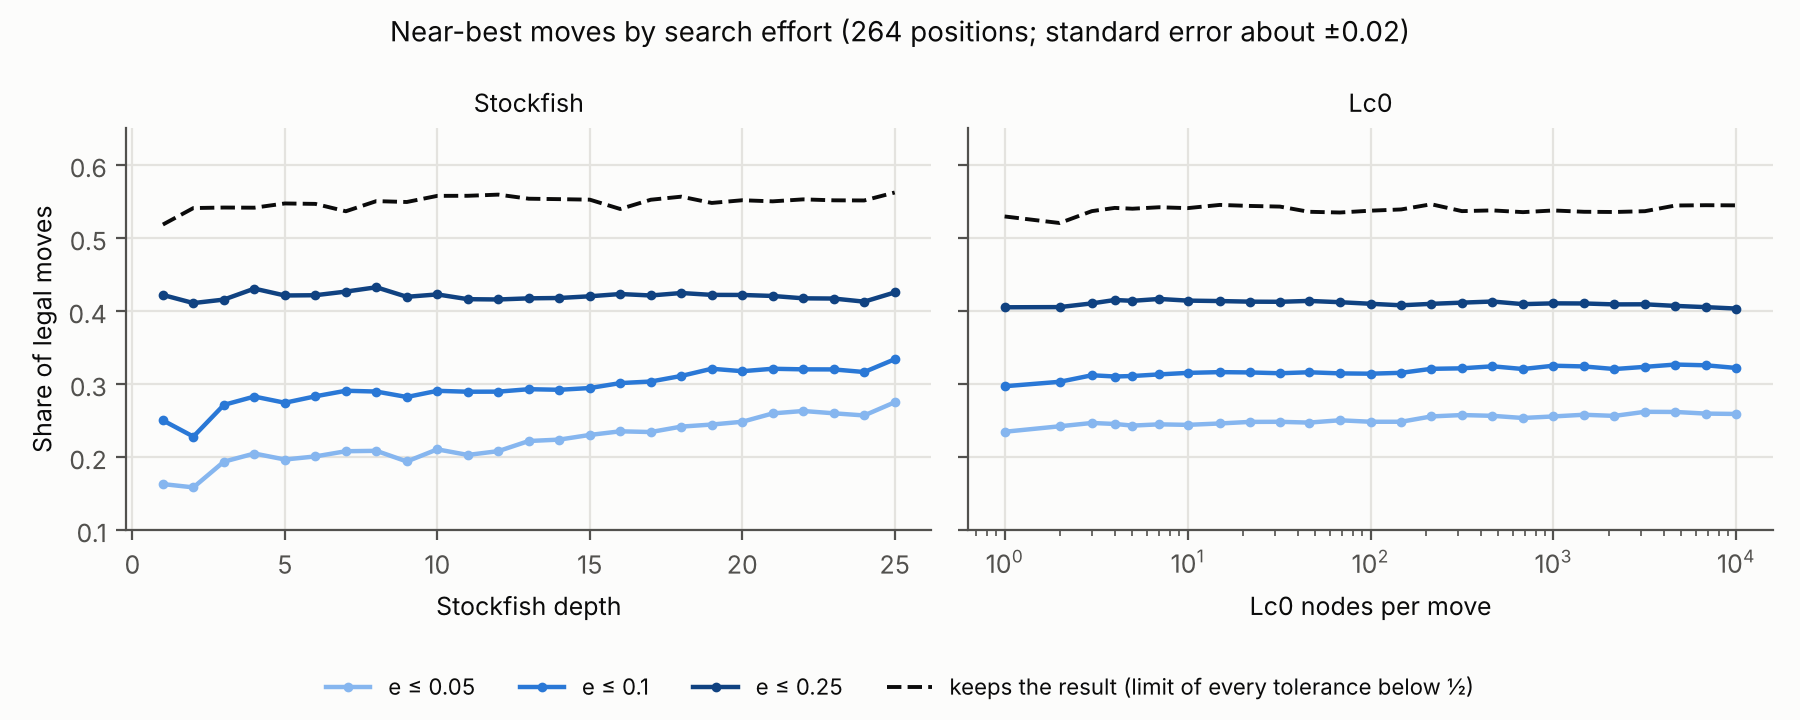
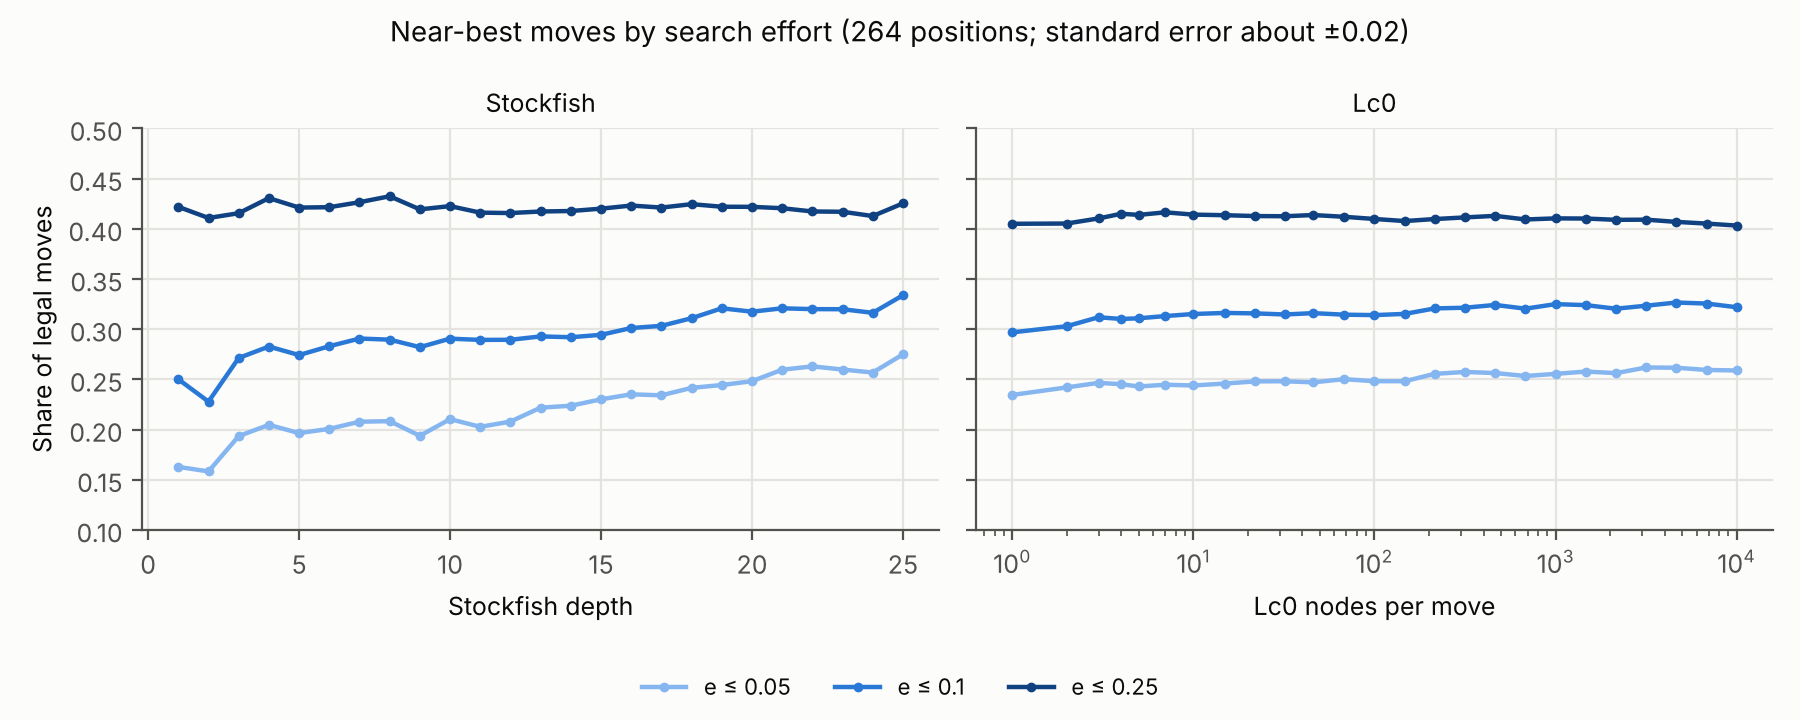
v2 analysis: defer infinite depth; half-tolerance check (step 9)
Figures and README no longer show or describe infinite-depth estimates; step 5
is described as a measurement of result-keeping moves by the engines' own
verdicts, and the tablebase check only compares with perfect play.

Claude-Session: https://claude.ai/code/session_01D32BWS5i6ZdR1y23xheMQ1

diff --git a/v2/analysis/figures.py b/v2/analysis/figures.py
@@ -38,7 +38,6 @@ TOLERANCE_COLORS = {0.05: "#86b6ef", 0.10: "#2a78d6", 0.25: "#104281"}   # ordin
 
 
 def near_best_by_level():
-    keeping = [r for r in read_csv("result_keeping.csv") if r["rule"] == "argmax"]
     fig, axes = plt.subplots(1, 2, figsize=(9, 3.6), sharey=True)
     for ax, run in ((axes[0], c.load_stockfish()), (axes[1], c.load_lc0())):
         counts, n = c.near_best_counts(run)
@@ -46,9 +45,6 @@ def near_best_by_level():
         for ti, t in enumerate(c.THRESHOLDS):
             ax.plot(xs, (counts[:, :, ti] / n[:, None]).mean(axis=0), "-o", color=TOLERANCE_COLORS[t], markersize=2.5,
                     linewidth=1.6, label=f"e ≤ {t}")
-        keep = sorted([r for r in keeping if r["engine"] == run.engine], key=lambda r: int(r["level_index"]))
-        ax.plot(xs, [float(r["share_keeping"]) for r in keep], "--", color=INK, linewidth=1.4,
-                label="keeps the result (limit of every tolerance below ½)")
         if run.level_name == "depth":
             ax.set_xlabel("Stockfish depth")
         else:
@@ -56,11 +52,11 @@ def near_best_by_level():
             ax.set_xlabel("Lc0 nodes per move")
         ax.set_title(run.engine, fontsize=9)
     axes[0].set_ylabel("Share of legal moves")
-    axes[0].set_ylim(0.1, 0.65)
+    axes[0].set_ylim(0.1, 0.5)
     handles, labels = axes[1].get_legend_handles_labels()
     fig.suptitle("Near-best moves by search effort (264 positions; standard error about ±0.02)", fontsize=10)
     fig.tight_layout(rect=(0, 0.1, 1, 1))
-    fig.legend(handles, labels, loc="lower center", ncol=4, frameon=False, fontsize=8)
+    fig.legend(handles, labels, loc="lower center", ncol=3, frameon=False, fontsize=8)
     fig.savefig(c.OUT / "near_best_by_level.png", dpi=200)
     plt.close(fig)
 
@@ -73,26 +69,12 @@ def share_curves(errors, grid):
     return np.mean([(e[None, :] <= grid[:, None] + 1e-12).mean(axis=1) for e in errors], axis=0)
 
 
-def limit_errors(wdl_results):
-    """Per-position errors at infinite depth from win/draw/loss results (1 / 0.5 / 0): each e is 0, 1/2 or 1."""
-    out = []
-    for r in wdl_results:
-        best, worst = r.max(), r.min()
-        out.append(np.zeros(len(r)) if best == worst else (best - r) / (best - worst))
-    return out
-
-
 def share_by_tolerance():
-    """Share of legal moves with relative error <= t, against t, at five levels per engine, plus the
-    infinite-depth curve estimated from each engine's own win/draw/loss verdicts at its top level."""
-    rk = importlib.import_module("05_result_keeping")
+    """Share of legal moves with relative error <= t, against t, at five levels per engine."""
     grid = np.concatenate([[0.0], np.linspace(1e-4, 1.0, 600)])
     fig, axes = plt.subplots(2, 2, figsize=(9.5, 6.4), sharey="row")
-    for col, (run, zip_path, level_col, offset) in enumerate(((c.load_stockfish(), c.SF_RUN, "depth", 1),
-                                                               (c.load_lc0(), c.LC0_RUN, "level", 0))):
+    for col, run in enumerate((c.load_stockfish(), c.load_lc0())):
         xs = run.x()
-        wdl = rk.load_wdl(zip_path, level_col, offset)
-        lim = share_curves(limit_errors([rk.results(wdl[p])[-1] for p in run.pos_ids]), grid)
         picks = [0, 6, 12, 18, 24]
         curves = [(run.levels[li], share_curves([c.relative_errors(xs[p][li:li + 1])[0] for p in run.pos_ids], grid))
                   for li in picks]
@@ -101,8 +83,6 @@ def share_by_tolerance():
             for (level, y), color in zip(curves, LEVEL_COLORS):
                 name = f"depth {level}" if run.level_name == "depth" else f"{level:,} node{'s' if level > 1 else ''}"
                 ax.plot(grid, y, color=color, linewidth=1.8, label=name)
-            ax.step(grid, lim, where="post", color=INK, linestyle="--", linewidth=1.3,
-                    label="infinite depth (estimated)")
             ax.set_xlim(0, xmax)
             for t in c.THRESHOLDS:
                 if t <= xmax:
@@ -111,7 +91,7 @@ def share_by_tolerance():
                 ax.set_title(run.engine, fontsize=10)
                 ax.set_ylim(0, 1.02)
             else:
-                ax.set_ylim(0, 0.7)
+                ax.set_ylim(0, 0.5)
                 ax.set_xlabel("error tolerance t")
         axes[0, col].legend(loc="upper left", frameon=False, fontsize=7.5, ncol=2, columnspacing=1.2)
     axes[0, 0].set_ylabel("share of legal moves with e ≤ t")

diff --git a/v2/analysis/09_half_tolerance_check.py b/v2/analysis/09_half_tolerance_check.py
@@ -1,0 +1,49 @@
+"""Step 9 (check): is about half of the legal moves within relative error 1/2, and is that robust?
+
+e <= 1/2 means a move's value is at least as close to the best move's value as to the worst move's.
+Reports the average share with e <= 0.5 (and its spread across positions) for several value scales and
+for selected Stockfish depths and Lc0 node levels.
+Output: out/half_tolerance_check.csv, printed summary.
+"""
+import numpy as np
+
+import common as c
+
+SCALES = [("common, Lichess steepness", 1.0, False), ("common, half as steep", 0.5, False),
+          ("common, twice as steep", 2.0, False), ("engine's own win/draw/loss scale", None, True)]
+
+
+def share_half(run, li, steepness, own):
+    xs = run.x(steepness or 1.0, own)
+    return np.array([np.mean(c.relative_errors(xs[p][li:li + 1])[0] <= 0.5 + 1e-12) for p in run.pos_ids])
+
+
+def main():
+    rows = []
+    for run, picks in ((c.load_stockfish(), (0, 12, 24)), (c.load_lc0(), (0, 12, 24))):
+        for name, steep, own in SCALES:
+            for li in picks:
+                s = share_half(run, li, steep, own)
+                m, se = c.mean_se(s)
+                q1, med, q3 = np.percentile(s, [25, 50, 75])
+                rows.append([run.engine, run.levels[li], name, round(m, 4), round(se, 4), round(med, 4), round(q1, 4), round(q3, 4)])
+    # centimetre-style raw centipawns as a further scale (clipped at +-1000, mates at the clip)
+    for run in (c.load_stockfish(), c.load_lc0()):
+        for li in (0, 12, 24):
+            vals = []
+            for p in run.pos_ids:
+                cp = np.clip(run.cp[p][li:li + 1], -1000, 1000)
+                vals.append(np.mean(c.relative_errors(cp)[0] <= 0.5 + 1e-12))
+            m, se = c.mean_se(vals)
+            q1, med, q3 = np.percentile(vals, [25, 50, 75])
+            rows.append([run.engine, run.levels[li], "centipawns clipped at +-1000", round(m, 4), round(se, 4),
+                         round(med, 4), round(q1, 4), round(q3, 4)])
+    c.write_csv(c.OUT / "half_tolerance_check.csv", rows,
+                ["engine", "level", "scale", "mean_share_e_le_half", "se", "median", "q25", "q75"])
+    print("Share of legal moves with e <= 0.5: average ± s.e. [middle half of positions]")
+    for r in rows:
+        print(f"  {r[0]:<10}{r[1]:>6}  {r[2]:<34} {r[3]:.3f} ± {r[4]:.3f}  [{r[6]:.2f}, {r[7]:.2f}]")
+
+
+if __name__ == "__main__":
+    main()

diff --git a/v2/analysis/04_tablebase_check.py b/v2/analysis/04_tablebase_check.py
@@ -1,4 +1,4 @@
-"""Step 4: check the infinite-depth picture against perfect play, in positions with <= 7 pieces.
+"""Step 4: compare the engines with perfect play, in positions with <= 7 pieces.
 
 Reads tablebase_results.csv (made by tablebase_query.py on a computer with internet access, from
 tablebase_positions.txt: the 78 positions of the first Lc0 run with at most 7 pieces, 16 of which are
@@ -16,7 +16,6 @@ Compares with perfect play:
   - on the 16 paired positions: both engines' near-best sets at every level, and their result-keeping
     sets read from their win/draw/loss verdicts (step 5);
   - on all 78 positions: Lc0's result-keeping sets at 1,000 nodes (first run);
-  - whether the Stockfish depth trend, fitted on the paired positions, points at the exact share.
 Output: out/tablebase_check.csv, printed summary.
 """
 import collections
@@ -28,7 +27,6 @@ import numpy as np
 
 import common as c
 
-trends = importlib.import_module("03_depth_trends")
 rk = importlib.import_module("05_result_keeping")
 
 MOVER_VALUE = {"loss": 1.0, "maybe-loss": 1.0, "win": 0.0, "maybe-win": 0.0, "draw": 0.5,
@@ -124,17 +122,6 @@ def main():
     c.write_csv(c.OUT / "tablebase_check.csv", rows,
                 ["engine", "rule", "level_index", "level", "positions", "share_engine", "share_exact", "precision",
                  "recall", "verdict_right"])
-
-    print("\nStockfish trend fitted on the paired positions (depths 5-25), extrapolated, against the exact share")
-    eng = trends.Engine(sf.subset(pids))
-    q = eng.quantities(np.arange(len(pids)), ("mean_count",))
-    for ti, t in enumerate(c.THRESHOLDS):
-        y = q["mean_share"][:, ti]
-        out = []
-        for form in ("constant", "linear", "exponential", "power"):
-            params, lim, ident = trends.fit_form(form, eng.x[eng.use], y[eng.use])
-            out.append(f"{form} {'-' if lim is None or not ident else f'{lim:.3f}'}")
-        print(f"  e<={t}: depth 25 {y[-1]:.3f} | limits: " + ", ".join(out) + f" | exact {ex_share(pids):.3f}")
 
 
 if __name__ == "__main__":

diff --git a/v2/analysis/05_result_keeping.py b/v2/analysis/05_result_keeping.py
@@ -1,16 +1,13 @@
-"""Step 5: the infinite-depth limit read directly, as the share of moves that keep the result.
+"""Step 5: the share of moves that keep the best result, according to each engine's own verdict.
 
-With perfect play every move's value is exactly a win, draw or loss, so the relative error of every
-move is 0, 1/2 or 1 (or 0 for all when all moves give the same result). For every tolerance below
-1/2 the near-best moves are therefore the same set: the moves that keep the position's best result.
-The smooth depth trends of step 3 cannot reach this limit for Stockfish (its share is still rising
-at depth 25), so here the limit is estimated directly: each move's result is read from the engine's
-own win/draw/loss verdict (the most likely of the three; a majority rule is the robustness check),
-and a position's share is the fraction of moves whose result equals the best one.
+Each move's result (win, draw or loss for the player who makes it) is read from the engine's own
+win/draw/loss figures at that depth or node level (the most likely of the three; a majority rule is the
+robustness check). A position's share is the fraction of moves whose result equals the best one (all
+moves, when every move gives the same result).
 
 Reported for every Stockfish depth and Lc0 node level, by the verdict for the side to move, and as
-agreement between the engines at the top level. The tablebase step (04) checks the verdicts against
-perfect play where that is known.
+agreement between the engines at the top level. Step 4 compares the verdicts with perfect play where
+the tablebases know it.
 Output: out/result_keeping.csv
 """
 import collections

diff --git a/v2/analysis/README.md b/v2/analysis/README.md
@@ -10,7 +10,11 @@ Requirements: Python 3 with `numpy`, `scipy`, `matplotlib` and `chess`. Run the 
 | `01_scale_sensitivity.py` | How much the scale choices move the near-best share at the top level. | seconds |
 | `02_count_distributions.py` | Fits five count models to the number of near-best moves at every level and tolerance. | ~20 s |
 | `03_depth_trends.py` | Fits trend shapes against depth, tests them on held-out depths, and extrapolates to infinite depth with bootstrap error bars. | ~5 min |
-| `05_result_keeping.py` | Reads the infinite-depth limit directly: the share of moves that keep the best result, from each engine's win/draw/loss verdicts. | seconds |
+| `05_result_keeping.py` | The share of moves that keep the best result according to each engine's own win/draw/loss verdict, at every depth and node level. | seconds |
+| `06_recognition_and_decisions.py` | How far the near-best moves overlap the result-keeping moves, how often the best move changes with depth, and whether the engines grow more or less optimistic. | seconds |
+| `07_error_distribution_look.py` | The relative error itself, binned, by depth and node level. | seconds |
+| `08_zoib_look.py` | A first, pooled fit of the zero-one-inflated beta to the relative error at five levels per engine. | seconds |
+| `09_half_tolerance_check.py` | The share of moves with e <= 1/2 across scales, depths and engines. | seconds |
 | `tablebase_query.py` | Asks the Lichess tablebase for the perfect-play result of every move in `tablebase_positions.txt` (the 78 positions of the first Lc0 run with at most 7 pieces; 16 are among the 264 paired positions). Needs internet access: `python tablebase_query.py --positions tablebase_positions.txt`, then put `tablebase_results.csv` in `../results/`. | ~2 min |
 | `04_tablebase_check.py` | Compares the engines and the extrapolation with perfect play in those positions (reads `../results/tablebase_results.csv`). | ~10 s |
 | `figures.py` | Draws the figures in `out/`. | ~10 s |
@@ -27,13 +31,13 @@ Requirements: Python 3 with `numpy`, `scipy`, `matplotlib` and `chess`. Run the 
 
 **Trends.** Stockfish: train on depths 5-20, hold out 21-25 (depths 1-4 are mostly quiescence search). Lc0: train on 1-1,000 nodes, hold out 1,468-10,000. Shapes: constant, linear (no limit), exponential approach and power approach. The shape with the smallest held-out error is refitted on all levels; its value at infinite depth is the limit. Error bars come from refitting on positions resampled with replacement.
 
-**The limit.** With perfect play every move's value is exactly a win, draw or loss, so every relative error is 0, 1/2 or 1. For any tolerance below 1/2 the near-best moves at infinite depth are therefore the same set: the moves that keep the position's best result (all moves, when every move gives the same result). Step 5 estimates this set from the engines' own win/draw/loss verdicts; step 4 checks it against tablebases.
+**Infinite depth.** Deferred: the analysis so far describes the measured depths and node levels only. Step 5 measures, at each level, which moves keep the result according to the engine's own verdict; step 4 compares the engines with perfect play in the positions with at most 7 pieces.
 
 ## Results so far (264 positions, Stockfish depth 25 and Lc0 10,000 nodes)
 
 1. **Scale.** On the common curve the two engines agree: the share of moves with e <= 0.10 is 0.334 for Stockfish and 0.322 for Lc0, and the per-position counts correlate at 0.91. Making the curve twice as gentle or twice as steep moves the share from about 0.37 to about 0.28, but the engines stay within 0.02 of each other. On each engine's own win/draw/loss scale they disagree (0.435 against 0.244).
 2. **Distribution.** The binomial is rejected at every level. The beta-binomial passes the goodness-of-fit test at all 25 levels for e <= 0.05 and 0.10, for both engines. At e <= 0.25 there are more positions with exactly one acceptable move than it predicts, and a zero-inflated beta-binomial (an extra 3-10% of such positions) fits better. At the top level, e <= 0.10: Stockfish mu = 0.285, phi = 1.72; Lc0 mu = 0.271, phi = 1.75. Stockfish's parameters move with depth until they meet Lc0's, which hardly move at all.
 3. **Depth trends.** Lc0 is flat from 1 to 10,000 nodes, so its limits are close to its current values. Stockfish at e <= 0.05 and 0.10 is still rising at depth 25 (about 0.4 and 0.3 points of share per depth), and the held-out test cannot tell a levelling-off curve from a straight line: the limit is not identified from depths 1-25. At e <= 0.25 both engines are flat (0.425 and 0.403).
-4. **Result-keeping moves (the limit).** 0.562 of the legal moves for Stockfish at depth 25 and 0.545 for Lc0 at 10,000 nodes, about 14 moves per position. The share barely depends on search effort (Stockfish 0.547 at depth 5, Lc0 0.529 at 1 node), the engines give the same verdict for the side to move in 95% of positions, and by verdict the share is 0.42 in won positions, 0.44 in drawn positions and 1 in lost positions (every move loses). Stockfish at depth 12 gives 96.6% of moves the same result as depth 25.
+4. **Result-keeping moves (by the engines' own verdicts).** 0.562 of the legal moves for Stockfish at depth 25 and 0.545 for Lc0 at 10,000 nodes, about 14 moves per position. The share barely depends on search effort (Stockfish 0.547 at depth 5, Lc0 0.529 at 1 node), the engines give the same verdict for the side to move in 95% of positions, and by verdict the share is 0.42 in won positions, 0.44 in drawn positions and 1 in lost positions (every move loses). Stockfish at depth 12 gives 96.6% of moves the same result as depth 25.
 
 Still to do: the tablebase check (78 positions, 16 of them paired), and walks down the tree to estimate its growth per move.
